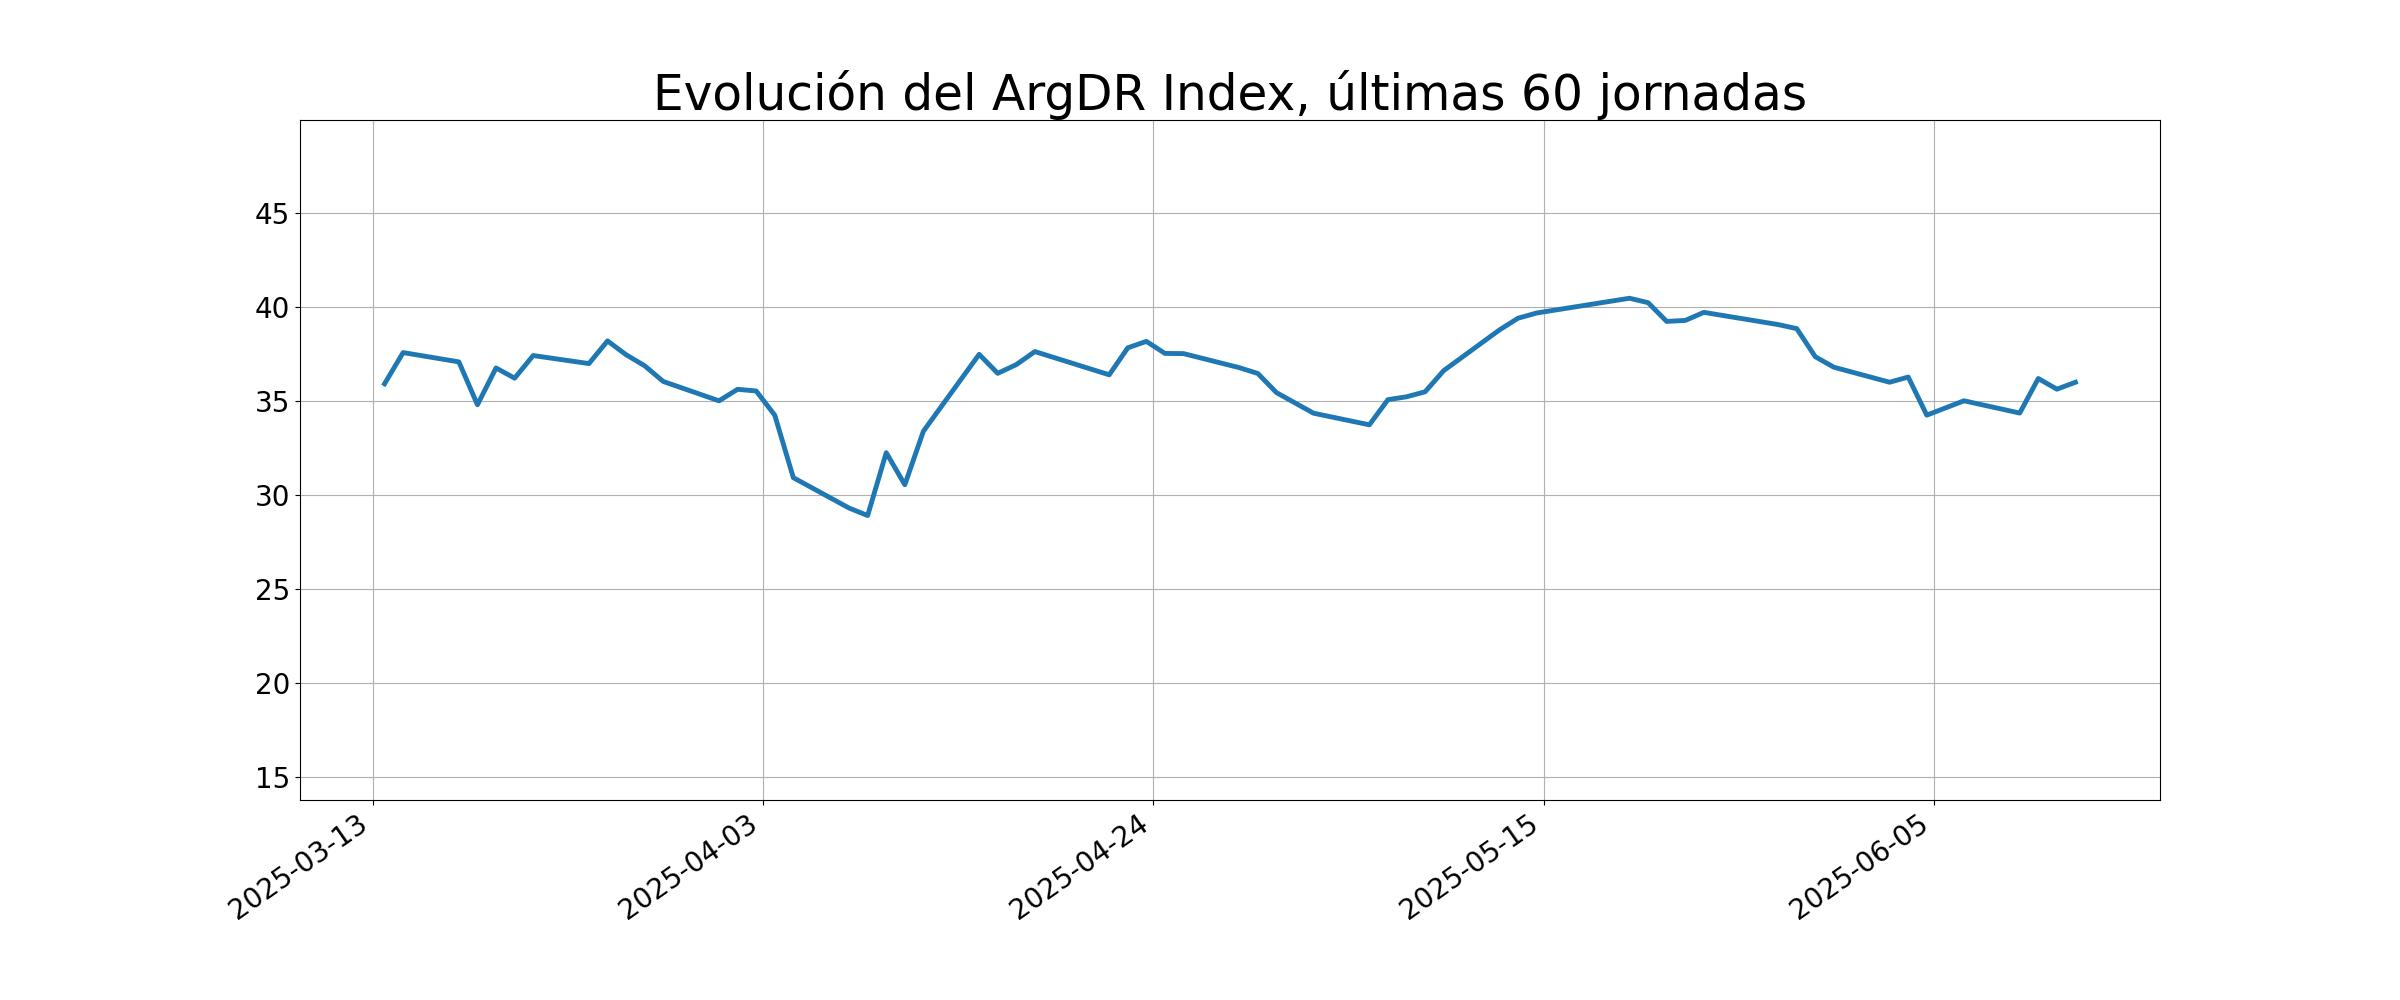
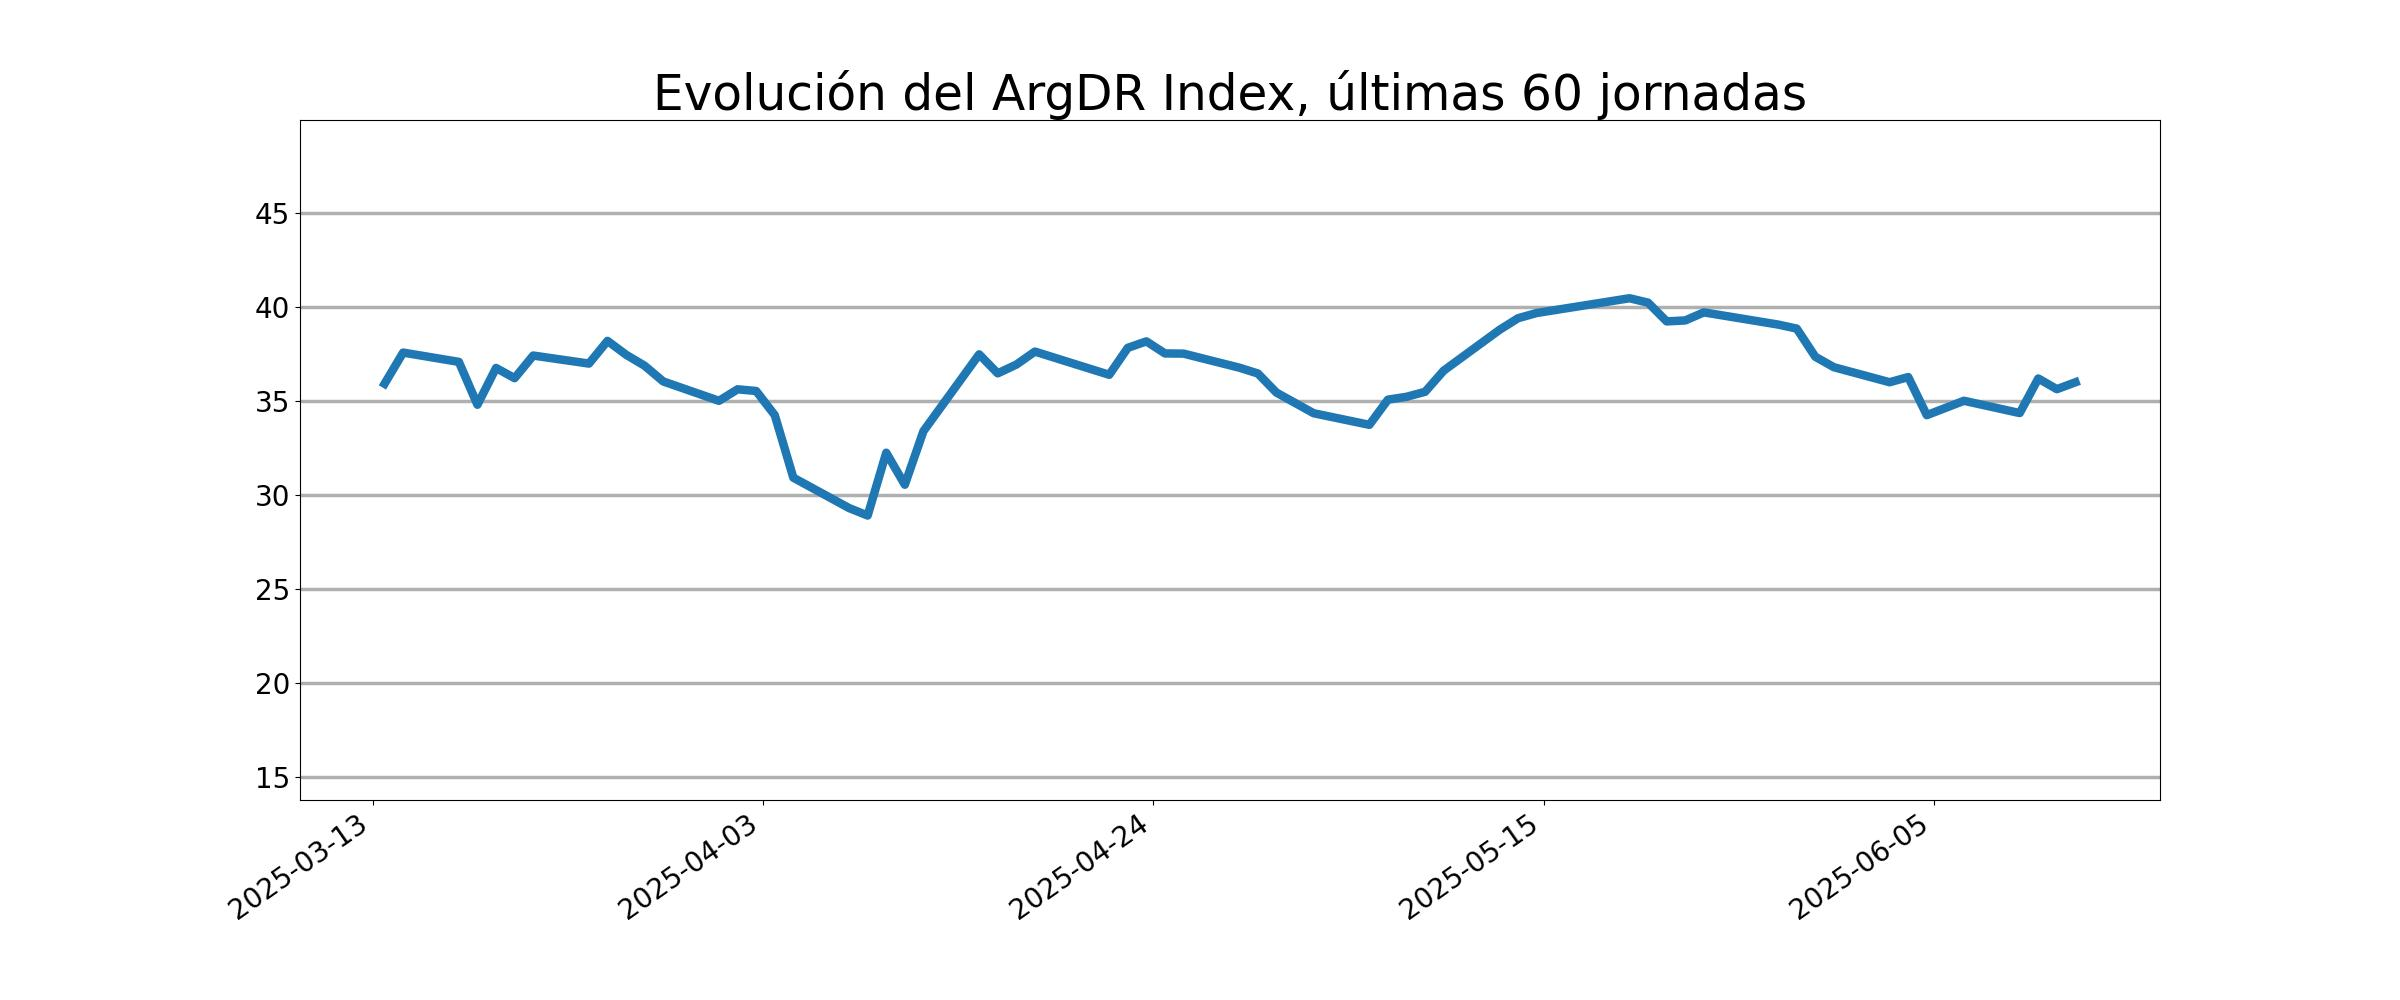
Improved graph legibility
Made changes to gridline format and x axis ticks

diff --git a/ArgDR_v2.0/ArgDR_from_bigquery.py b/ArgDR_v2.0/ArgDR_from_bigquery.py
@@ -108,16 +108,19 @@ print(f"El ArgDR index varió un {round(percentage_change_daily,3)}% respecto de
 # Make a chart for all values since 2024-01-01
 
 plt.figure(figsize=(24,10))
-plt.plot(filtered_df.index, filtered_df['Valor'], linewidth = 3.5)
+plt.plot(filtered_df.index, filtered_df['Valor'], linewidth = 3.9)
 plt.title('Evolución del ArgDR Index, 2024-25', fontsize=35)
 plt.yticks(fontsize=20)
 
 # Format x-axis with dates
-plt.gca().xaxis.set_major_locator(plt.MultipleLocator(21))  # Set ticks every 21 days
+plt.gca().xaxis.set_major_locator(plt.MultipleLocator(30))  # Set ticks every 30 days
 plt.gcf().autofmt_xdate()  # Auto-format date labels
-plt.xticks(fontsize=20, rotation=35)
+plt.xticks(fontsize=14, rotation=35)
 
-plt.grid()
+# Format grid
+plt.grid(linewidth = 3.2, axis = 'y')
+plt.grid(linewidth = 1, axis = 'x')
+
 plt.ylim(filtered_df['Valor'].min() * 0.8, filtered_df['Valor'].max() * 1.06)
 # Save the plot as a .jpeg file
 plt.savefig('ArgDR_v2.0\\Graph and chart outputs\\ArgDR_chart_since_2024.jpeg', format='jpeg')
@@ -127,7 +130,7 @@ plt.savefig('ArgDR_v2.0\\Graph and chart outputs\\ArgDR_chart_since_2024.jpeg', 
 
 filtered_df_60_latest = filtered_df[-60:]
 plt.figure(figsize=(24,10))
-plt.plot(filtered_df_60_latest.index, filtered_df_60_latest['Valor'], linewidth = 3.5)
+plt.plot(filtered_df_60_latest.index, filtered_df_60_latest['Valor'], linewidth = 6.1)
 plt.title('Evolución del ArgDR Index, últimas 60 jornadas', fontsize=35)
 plt.yticks(fontsize=20)
 
@@ -136,7 +139,11 @@ plt.gca().xaxis.set_major_locator(plt.MultipleLocator(21))  # Set ticks every 21
 plt.gcf().autofmt_xdate()  # Auto-format date labels
 plt.xticks(fontsize=20, rotation=35)
 
-plt.grid()
+# Format grid
+plt.grid(linewidth = 2.5, axis = 'y')
+
 plt.ylim(filtered_df['Valor'].min() * 0.8, filtered_df['Valor'].max() * 1.06)
 # Save the plot as a .jpeg file
 plt.savefig('ArgDR_v2.0\\Graph and chart outputs\\ArgDR_chart_60_latest.jpeg', format='jpeg')
+
+print('Generated all graphs. End of script.')
